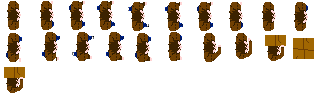
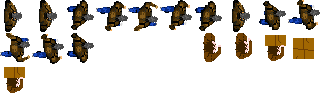
playing with sprites

Changed region(s): [[0.0, 0.0, 0.7812, 0.6562], [0.8125, 0.0, 1.0, 0.3438]]

diff --git a/lib/game/entities/player.js b/lib/game/entities/player.js
@@ -22,7 +22,7 @@ EntityPlayer = ig.Entity.extend({
 	collides: ig.Entity.COLLIDES.PASSIVE,
 	name: 'player',
 
-	animSheet: new ig.AnimationSheet('media/twd_player.png', 32, 32),
+	animSheet: new ig.AnimationSheet('media/player.png', 32, 32),
 
 	// These are our own properties. They are not defined in the base
 	// ig.Entity class. We just use them internally for the Player
@@ -41,14 +41,14 @@ EntityPlayer = ig.Entity.extend({
 		this.parent( x, y, settings );
 
 		this.addAnim( 'idle', 1, [0] );
-		//this.addAnim( 'run', 0.09, [0,1,2,3,4,5,6,7,8,9,10,11,12,13,14,15] );
-		//this.addAnim( 'boxHide', 2, [16,17,18,19], true);
-		//this.addAnim( 'boxIdle', 1, [19]);
-		//this.addAnim( 'boxAway', 2, [19, 20], true);
-		this.addAnim( 'run', 0.09, [0,1,2,3,4,5,6,7,8,9,10,11] );
+		this.addAnim( 'run', 0.1, [1,2,3,4,5,6,7,8,9,10,11,12] );
+		this.addAnim( 'boxHide', 2, [16,17,18,19], true);
+		this.addAnim( 'boxIdle', 1, [19]);
+		this.addAnim( 'boxAway', 2, [19, 20], true);
+		/*this.addAnim( 'run', 0.09, [0,1,2,3,4,5,6,7,8,9,10,11] );
 		this.addAnim( 'boxHide', 2, [12,13,14,15], true);
 		this.addAnim( 'boxIdle', 1, [15]);
-		this.addAnim( 'boxAway', 2, [14, 15], true);
+		this.addAnim( 'boxAway', 2, [14, 15], true);*/
 
 		if(settings.needs == undefined) {
 			ig.game.needs = new Needs();
